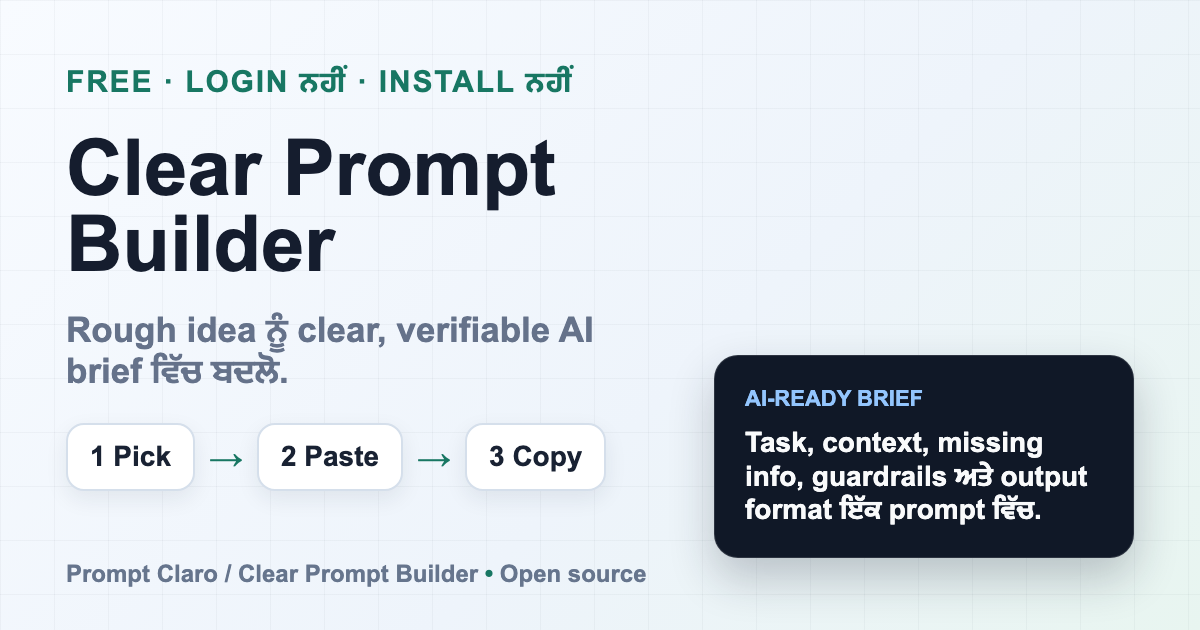
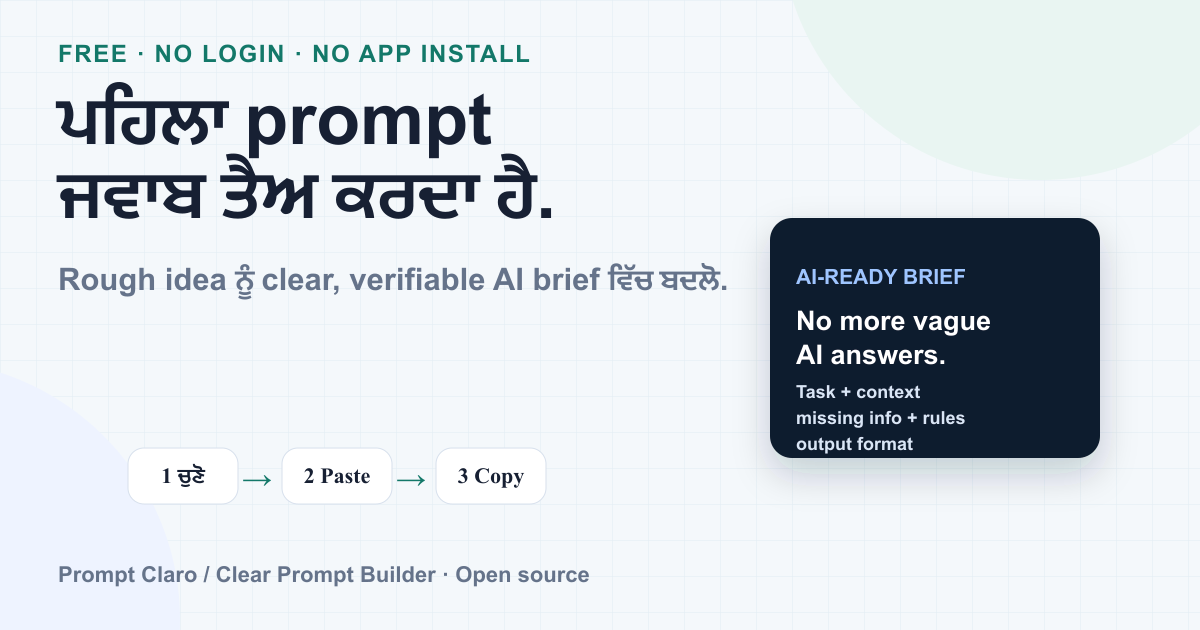
Make share preview hook stickier

Changed region(s): [[0.0308, 0.0603, 0.9558, 0.9651], [0.0617, 0.6635, 0.4933, 0.8143], [0.0308, 0.8746, 0.555, 0.9349]]

diff --git a/hi.html b/hi.html
@@ -3,25 +3,25 @@
   <head>
     <meta charset="utf-8">
     <meta name="viewport" content="width=device-width, initial-scale=1">
-    <title>Clear Prompt Builder | अपनी बात को बेहतर prompt में बदलें</title>
-    <meta name="description" content="AI से जो करवाना है, जैसे दिमाग में है वैसे लिखें या paste करें. Clear Prompt Builder उसे ChatGPT, Gemini, Claude या किसी भी AI के लिए clear prompt बना देता है. Free, no login, no app install.">
+    <title>Clear Prompt Builder | पहला prompt जवाब तय करता है</title>
+    <meta name="description" content="AI से जो करवाना है, उसे rough form में लिखें और clear, verifiable prompt बनाएं. Free, no login, no app install.">
     <link rel="canonical" href="https://www.ashishpunj.com/nha-tce/hi.html">
     <link rel="alternate" hreflang="es" href="https://www.ashishpunj.com/nha-tce/">
     <link rel="alternate" hreflang="en" href="https://www.ashishpunj.com/nha-tce/en.html">
     <link rel="alternate" hreflang="hi" href="https://www.ashishpunj.com/nha-tce/hi.html">
     <link rel="alternate" hreflang="pa" href="https://www.ashishpunj.com/nha-tce/pa.html">
     <link rel="alternate" hreflang="x-default" href="https://www.ashishpunj.com/nha-tce/">
-    <meta property="og:title" content="Clear Prompt Builder">
-    <meta property="og:description" content="AI से जो करवाना है, जैसे दिमाग में है वैसे लिखें या paste करें. Clear Prompt Builder उसे ChatGPT, Gemini, Claude या किसी भी AI के लिए clear prompt बना देता है. Free, no login, no app install.">
+    <meta property="og:title" content="पहला prompt जवाब तय करता है">
+    <meta property="og:description" content="AI से जो करवाना है, उसे rough form में लिखें और clear, verifiable prompt बनाएं. Free, no login, no app install.">
     <meta property="og:type" content="website">
     <meta property="og:url" content="https://www.ashishpunj.com/nha-tce/hi.html">
     <meta property="og:locale" content="hi_IN">
-    <meta property="og:image" content="https://www.ashishpunj.com/nha-tce/og-image-hi.png">
+    <meta property="og:image" content="https://www.ashishpunj.com/nha-tce/og-image-hi.png?v=0.1.9-hook-20260507">
     <meta property="og:image:width" content="1200">
     <meta property="og:image:height" content="630">
     <meta name="twitter:card" content="summary_large_image">
-    <meta name="twitter:image" content="https://www.ashishpunj.com/nha-tce/og-image-hi.png">
-    <link rel="stylesheet" href="style.css?v=0.1.9-language-url-20260507">
+    <meta name="twitter:image" content="https://www.ashishpunj.com/nha-tce/og-image-hi.png?v=0.1.9-hook-20260507">
+    <link rel="stylesheet" href="style.css?v=0.1.9-hook-20260507">
   </head>
   <body>
     <main class="app-shell">
@@ -208,6 +208,6 @@
       </footer>
     </main>
 
-  <script src="app.js?v=0.1.9-language-url-20260507"></script>
+  <script src="app.js?v=0.1.9-hook-20260507"></script>
   </body>
 </html>

diff --git a/pa.html b/pa.html
@@ -3,25 +3,25 @@
   <head>
     <meta charset="utf-8">
     <meta name="viewport" content="width=device-width, initial-scale=1">
-    <title>Clear Prompt Builder | ਆਪਣੀ ਗੱਲ ਨੂੰ ਵਧੀਆ prompt ਬਣਾਓ</title>
-    <meta name="description" content="AI ਤੋਂ ਜੋ ਕਰਵਾਉਣਾ ਹੈ, ਜਿਵੇਂ ਮਨ ਵਿੱਚ ਹੈ ਉਹ ਲਿਖੋ ਜਾਂ paste ਕਰੋ. Clear Prompt Builder ਇਸਨੂੰ ChatGPT, Gemini, Claude ਜਾਂ ਕਿਸੇ ਵੀ AI ਲਈ clear prompt ਬਣਾ ਦਿੰਦਾ ਹੈ. Free, no login, no app install.">
+    <title>Clear Prompt Builder | ਪਹਿਲਾ prompt ਜਵਾਬ ਤੈਅ ਕਰਦਾ ਹੈ</title>
+    <meta name="description" content="AI ਤੋਂ ਜੋ ਕਰਵਾਉਣਾ ਹੈ, ਉਹ rough form ਵਿੱਚ ਲਿਖੋ ਅਤੇ clear, verifiable prompt ਬਣਾਓ. Free, no login, no app install.">
     <link rel="canonical" href="https://www.ashishpunj.com/nha-tce/pa.html">
     <link rel="alternate" hreflang="es" href="https://www.ashishpunj.com/nha-tce/">
     <link rel="alternate" hreflang="en" href="https://www.ashishpunj.com/nha-tce/en.html">
     <link rel="alternate" hreflang="hi" href="https://www.ashishpunj.com/nha-tce/hi.html">
     <link rel="alternate" hreflang="pa" href="https://www.ashishpunj.com/nha-tce/pa.html">
     <link rel="alternate" hreflang="x-default" href="https://www.ashishpunj.com/nha-tce/">
-    <meta property="og:title" content="Clear Prompt Builder">
-    <meta property="og:description" content="AI ਤੋਂ ਜੋ ਕਰਵਾਉਣਾ ਹੈ, ਜਿਵੇਂ ਮਨ ਵਿੱਚ ਹੈ ਉਹ ਲਿਖੋ ਜਾਂ paste ਕਰੋ. Clear Prompt Builder ਇਸਨੂੰ ChatGPT, Gemini, Claude ਜਾਂ ਕਿਸੇ ਵੀ AI ਲਈ clear prompt ਬਣਾ ਦਿੰਦਾ ਹੈ. Free, no login, no app install.">
+    <meta property="og:title" content="ਪਹਿਲਾ prompt ਜਵਾਬ ਤੈਅ ਕਰਦਾ ਹੈ">
+    <meta property="og:description" content="AI ਤੋਂ ਜੋ ਕਰਵਾਉਣਾ ਹੈ, ਉਹ rough form ਵਿੱਚ ਲਿਖੋ ਅਤੇ clear, verifiable prompt ਬਣਾਓ. Free, no login, no app install.">
     <meta property="og:type" content="website">
     <meta property="og:url" content="https://www.ashishpunj.com/nha-tce/pa.html">
     <meta property="og:locale" content="pa_IN">
-    <meta property="og:image" content="https://www.ashishpunj.com/nha-tce/og-image-pa.png">
+    <meta property="og:image" content="https://www.ashishpunj.com/nha-tce/og-image-pa.png?v=0.1.9-hook-20260507">
     <meta property="og:image:width" content="1200">
     <meta property="og:image:height" content="630">
     <meta name="twitter:card" content="summary_large_image">
-    <meta name="twitter:image" content="https://www.ashishpunj.com/nha-tce/og-image-pa.png">
-    <link rel="stylesheet" href="style.css?v=0.1.9-language-url-20260507">
+    <meta name="twitter:image" content="https://www.ashishpunj.com/nha-tce/og-image-pa.png?v=0.1.9-hook-20260507">
+    <link rel="stylesheet" href="style.css?v=0.1.9-hook-20260507">
   </head>
   <body>
     <main class="app-shell">
@@ -208,6 +208,6 @@
       </footer>
     </main>
 
-  <script src="app.js?v=0.1.9-language-url-20260507"></script>
+  <script src="app.js?v=0.1.9-hook-20260507"></script>
   </body>
 </html>

diff --git a/index.html b/index.html
@@ -3,25 +3,25 @@
   <head>
     <meta charset="utf-8">
     <meta name="viewport" content="width=device-width, initial-scale=1">
-    <title>Prompt Claro | Brief claro para cualquier IA</title>
-    <meta name="description" content="Convierte una idea en bruto en un brief claro para ChatGPT, Gemini, Claude, Codex, Cursor o la IA que uses. Gratis, sin login y sin instalar nada.">
+    <title>Prompt Claro | El primer prompt decide la respuesta</title>
+    <meta name="description" content="Convierte una idea en bruto en un brief claro y verificable para ChatGPT, Claude, Gemini o la IA que uses. Gratis, sin login y sin instalar nada.">
     <link rel="canonical" href="https://www.ashishpunj.com/nha-tce/">
     <link rel="alternate" hreflang="es" href="https://www.ashishpunj.com/nha-tce/">
     <link rel="alternate" hreflang="en" href="https://www.ashishpunj.com/nha-tce/en.html">
     <link rel="alternate" hreflang="hi" href="https://www.ashishpunj.com/nha-tce/hi.html">
     <link rel="alternate" hreflang="pa" href="https://www.ashishpunj.com/nha-tce/pa.html">
     <link rel="alternate" hreflang="x-default" href="https://www.ashishpunj.com/nha-tce/">
-    <meta property="og:title" content="Prompt Claro">
-    <meta property="og:description" content="Convierte una idea en bruto en un brief claro para ChatGPT, Gemini, Claude, Codex, Cursor o la IA que uses. Gratis, sin login y sin instalar nada.">
+    <meta property="og:title" content="El primer prompt decide la respuesta">
+    <meta property="og:description" content="Convierte una idea en bruto en un brief claro y verificable para ChatGPT, Claude, Gemini o la IA que uses. Gratis, sin login y sin instalar nada.">
     <meta property="og:type" content="website">
     <meta property="og:url" content="https://www.ashishpunj.com/nha-tce/">
     <meta property="og:locale" content="es_MX">
-    <meta property="og:image" content="https://www.ashishpunj.com/nha-tce/og-image.png">
+    <meta property="og:image" content="https://www.ashishpunj.com/nha-tce/og-image.png?v=0.1.9-hook-20260507">
     <meta property="og:image:width" content="1200">
     <meta property="og:image:height" content="630">
     <meta name="twitter:card" content="summary_large_image">
-    <meta name="twitter:image" content="https://www.ashishpunj.com/nha-tce/og-image.png">
-    <link rel="stylesheet" href="style.css?v=0.1.9-language-url-20260507">
+    <meta name="twitter:image" content="https://www.ashishpunj.com/nha-tce/og-image.png?v=0.1.9-hook-20260507">
+    <link rel="stylesheet" href="style.css?v=0.1.9-hook-20260507">
   </head>
   <body>
     <main class="app-shell">
@@ -208,6 +208,6 @@
       </footer>
     </main>
 
-  <script src="app.js?v=0.1.9-language-url-20260507"></script>
+  <script src="app.js?v=0.1.9-hook-20260507"></script>
   </body>
 </html>

diff --git a/en.html b/en.html
@@ -3,25 +3,25 @@
   <head>
     <meta charset="utf-8">
     <meta name="viewport" content="width=device-width, initial-scale=1">
-    <title>Clear Prompt Builder | Clear AI briefs from rough thoughts</title>
-    <meta name="description" content="Turn a rough idea into a clear brief for ChatGPT, Gemini, Claude, Codex, Cursor, or any AI tool. Free, no login, no app install.">
+    <title>Clear Prompt Builder | Your first prompt decides the answer</title>
+    <meta name="description" content="Turn a rough ask into a clear, verifiable brief for ChatGPT, Claude, Gemini, or any AI. Free, no login, no app install.">
     <link rel="canonical" href="https://www.ashishpunj.com/nha-tce/en.html">
     <link rel="alternate" hreflang="es" href="https://www.ashishpunj.com/nha-tce/">
     <link rel="alternate" hreflang="en" href="https://www.ashishpunj.com/nha-tce/en.html">
     <link rel="alternate" hreflang="hi" href="https://www.ashishpunj.com/nha-tce/hi.html">
     <link rel="alternate" hreflang="pa" href="https://www.ashishpunj.com/nha-tce/pa.html">
     <link rel="alternate" hreflang="x-default" href="https://www.ashishpunj.com/nha-tce/">
-    <meta property="og:title" content="Clear Prompt Builder">
-    <meta property="og:description" content="Turn a rough idea into a clear brief for ChatGPT, Gemini, Claude, Codex, Cursor, or any AI tool. Free, no login, no app install.">
+    <meta property="og:title" content="Your first prompt decides the answer">
+    <meta property="og:description" content="Turn a rough ask into a clear, verifiable brief for ChatGPT, Claude, Gemini, or any AI. Free, no login, no app install.">
     <meta property="og:type" content="website">
     <meta property="og:url" content="https://www.ashishpunj.com/nha-tce/en.html">
     <meta property="og:locale" content="en_IN">
-    <meta property="og:image" content="https://www.ashishpunj.com/nha-tce/og-image-en.png">
+    <meta property="og:image" content="https://www.ashishpunj.com/nha-tce/og-image-en.png?v=0.1.9-hook-20260507">
     <meta property="og:image:width" content="1200">
     <meta property="og:image:height" content="630">
     <meta name="twitter:card" content="summary_large_image">
-    <meta name="twitter:image" content="https://www.ashishpunj.com/nha-tce/og-image-en.png">
-    <link rel="stylesheet" href="style.css?v=0.1.9-language-url-20260507">
+    <meta name="twitter:image" content="https://www.ashishpunj.com/nha-tce/og-image-en.png?v=0.1.9-hook-20260507">
+    <link rel="stylesheet" href="style.css?v=0.1.9-hook-20260507">
   </head>
   <body>
     <main class="app-shell">
@@ -208,6 +208,6 @@
       </footer>
     </main>
 
-  <script src="app.js?v=0.1.9-language-url-20260507"></script>
+  <script src="app.js?v=0.1.9-hook-20260507"></script>
   </body>
 </html>

diff --git a/info.html b/info.html
@@ -6,7 +6,7 @@
     <title>Cómo funciona y términos | Prompt Claro</title>
     <meta name="description" content="Explicación simple de qué hace Prompt Claro, cómo funciona en el navegador y cuáles son sus términos de uso.">
     <link rel="canonical" href="https://www.ashishpunj.com/nha-tce/info.html">
-    <link rel="stylesheet" href="style.css?v=0.1.9-language-url-20260507">
+    <link rel="stylesheet" href="style.css?v=0.1.9-hook-20260507">
   </head>
   <body>
     <main class="app-shell info-page">
@@ -78,6 +78,6 @@
       </footer>
     </main>
 
-    <script src="app.js?v=0.1.9-language-url-20260507"></script>
+    <script src="app.js?v=0.1.9-hook-20260507"></script>
   </body>
 </html>

diff --git a/app.js b/app.js
@@ -1399,7 +1399,7 @@ function getShareUrl(language = currentLanguage) {
   url.pathname = getLocalizedPath(language);
   url.search = "";
   url.searchParams.set("lang", language);
-  url.searchParams.set("preview", "0.1.9");
+  url.searchParams.set("preview", "0.1.9-hook");
   url.hash = "";
   return url.toString();
 }
